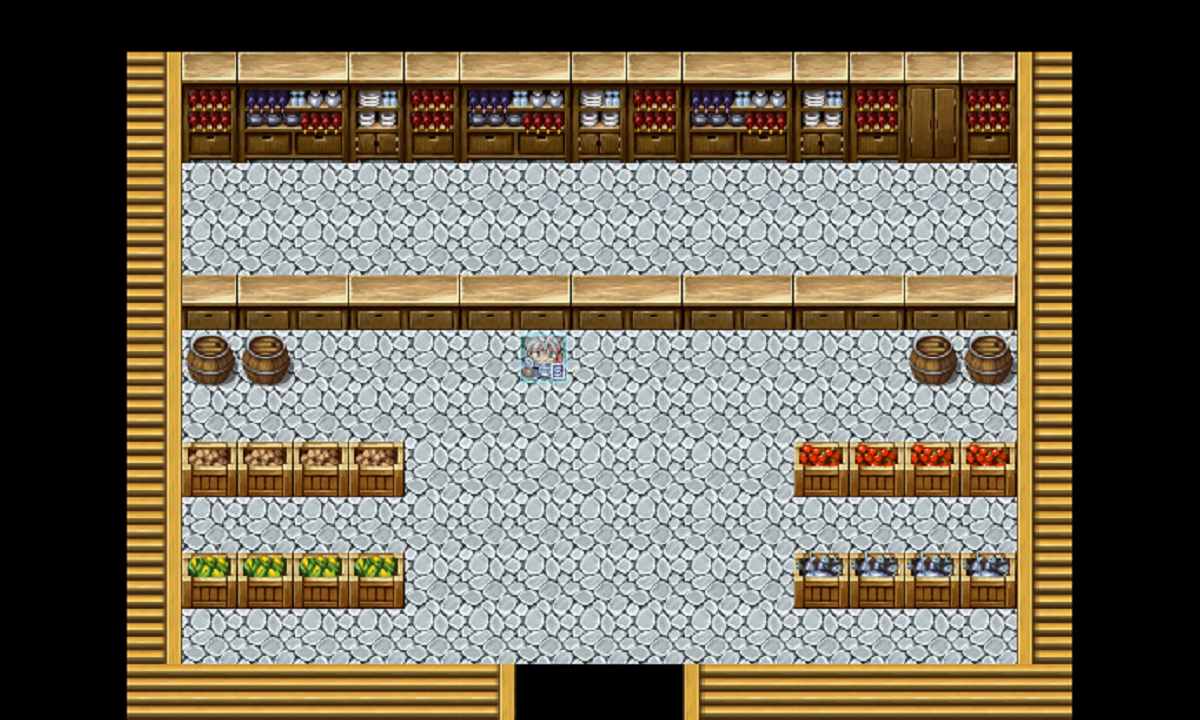
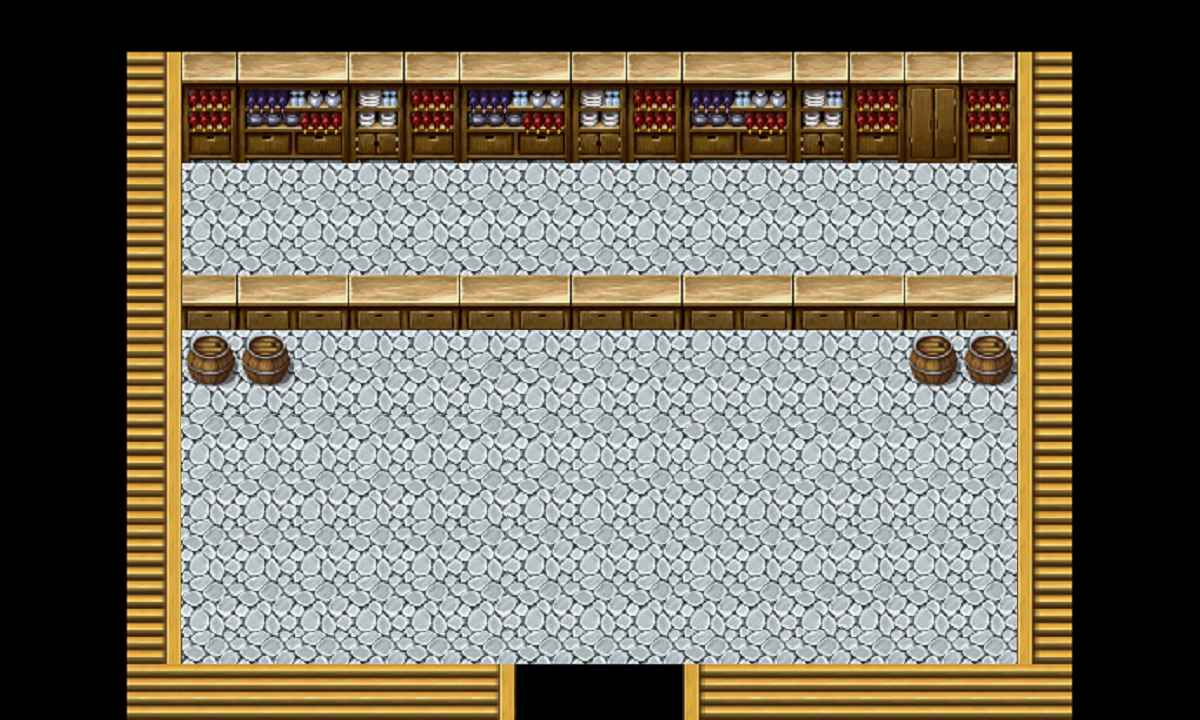
Added stock containers, shop image and 4 crate images

Changed region(s): [[0.1233, 0.4583, 0.4933, 0.8861], [0.555, 0.5806, 0.8633, 0.8861]]

diff --git a/core/src/com/bujok/ragstoriches/shop/StockContainer.java b/core/src/com/bujok/ragstoriches/shop/StockContainer.java
@@ -1,0 +1,139 @@
+package com.bujok.ragstoriches.shop;
+
+
+
+import com.badlogic.gdx.graphics.Color;
+import com.badlogic.gdx.graphics.Pixmap;
+import com.badlogic.gdx.graphics.Texture;
+import com.badlogic.gdx.graphics.g2d.Batch;
+import com.badlogic.gdx.graphics.g2d.TextureRegion;
+import com.badlogic.gdx.math.Rectangle;
+import com.badlogic.gdx.math.Vector3;
+import com.badlogic.gdx.scenes.scene2d.InputEvent;
+import com.badlogic.gdx.scenes.scene2d.Stage;
+import com.badlogic.gdx.scenes.scene2d.Touchable;
+import com.badlogic.gdx.scenes.scene2d.ui.Cell;
+import com.badlogic.gdx.scenes.scene2d.ui.Image;
+import com.badlogic.gdx.scenes.scene2d.ui.Label;
+import com.badlogic.gdx.scenes.scene2d.ui.Skin;
+import com.badlogic.gdx.scenes.scene2d.ui.Table;
+import com.badlogic.gdx.scenes.scene2d.ui.TextButton;
+import com.badlogic.gdx.scenes.scene2d.utils.ClickListener;
+import com.badlogic.gdx.scenes.scene2d.utils.TextureRegionDrawable;
+import com.badlogic.gdx.utils.Align;
+import com.badlogic.gdx.utils.Array;
+
+
+/**
+ * Created by tojoh on 30/01/2016.
+ */
+public class StockContainer extends Image {
+
+
+    protected String mStockType;
+    protected int mStockQuantity;
+    protected String mID;
+    protected Rectangle mImage;
+    protected Vector3 mCurrentPosition;
+    protected boolean mInfoShowing = false;
+    protected Table infoBoxTable;
+
+    // unique mID
+
+    //Texture texture = new Texture(Gdx.files.internal("shopper.png"));
+
+
+    public StockContainer(String type, int qty, Texture texture)
+    {
+        super(texture);
+        this.mStockType = type;
+        this.mStockQuantity = qty;
+        this.setTouchable(Touchable.enabled);
+        this.setBounds(getX(),getY(),getWidth(),getHeight());
+    }
+
+   @Override
+    public void draw(Batch batch, float parentAlpha)
+   {
+       TextureRegionDrawable textureRegionDrawable = (TextureRegionDrawable) getDrawable();
+       textureRegionDrawable.draw(batch,getX(),getY(),getOriginX(),getOriginY(),getWidth(),getHeight(),getScaleX(),getScaleY(),getRotation() );
+       if(infoBoxTable != null)
+       {
+           infoBoxTable.setPosition(((this.getWidth() / 2 )+ this.getX()) - (infoBoxTable.getWidth() / 2), this.getY() - 10  + infoBoxTable.getHeight());
+       }
+        super.draw(batch, parentAlpha);
+    }
+
+    public String getId() {
+        return mID;
+    }
+
+    public void setId(String id) {
+        this.mID = id;
+    }
+
+    public Vector3 getCurrentPosition() {
+        return mCurrentPosition;
+    }
+
+    public void setCurrentPosition(Vector3 currentPosition)
+    {
+        this.mCurrentPosition = currentPosition;
+    }
+
+    public void toggleInfoBox(Stage stage, Skin skin){
+        if(infoBoxTable != null){
+            infoBoxTable.remove();
+            infoBoxTable = null;
+        }else{
+            infoBoxTable = new Table();
+            //set background color of table
+            Pixmap pm1 = new Pixmap(1, 1, Pixmap.Format.RGB565);
+            pm1.setColor(new Color(0x0190C3D4));
+            pm1.fill();
+            infoBoxTable.setBackground(new TextureRegionDrawable(new TextureRegion(new Texture(pm1))));
+
+            Label typeLabel = new Label("Type : " + this.mStockType,skin);
+            typeLabel.setAlignment(Align.left);
+            final Label quantityLabel = new Label("Quantity : " + this.mStockQuantity,skin);
+            quantityLabel.setAlignment(Align.left);
+
+            TextButton closeTextButton = new TextButton("Close",skin,"default");
+            closeTextButton.addListener(new ClickListener(){
+                @Override
+                public void clicked(InputEvent event, float x, float y){
+                    infoBoxTable.remove();
+                }
+            });
+            closeTextButton.align(Align.right);
+            infoBoxTable.add(closeTextButton);
+            infoBoxTable.row();
+            infoBoxTable.add(typeLabel);
+            infoBoxTable.row();
+            infoBoxTable.add(quantityLabel);
+            Array<Cell> cells = infoBoxTable.getCells();
+            for (Cell c :cells) {
+                if(c != cells.get(0)){
+                    c.pad(0,20,0,20);
+                    c.align(Align.left);
+                }
+
+            }
+            infoBoxTable.pack();
+            infoBoxTable.setPosition(this.getX() - (infoBoxTable.getWidth() / 2), this.getY()  + infoBoxTable.getHeight());
+            stage.addActor(infoBoxTable);
+            Label.LabelStyle labelStyle = new Label.LabelStyle();
+
+
+
+        }
+
+    }
+    public String getStockType() {
+        return mStockType;
+    }
+
+    public Integer getStockQuantity() {
+        return mStockQuantity;
+    }
+}

diff --git a/core/src/com/bujok/ragstoriches/screens/ShopScreen.java b/core/src/com/bujok/ragstoriches/screens/ShopScreen.java
@@ -15,6 +15,7 @@ import com.badlogic.gdx.graphics.g2d.TextureRegion;
 import com.badlogic.gdx.graphics.glutils.ShapeRenderer;
 import com.badlogic.gdx.math.Rectangle;
 import com.badlogic.gdx.math.Vector2;
+import com.badlogic.gdx.math.Vector3;
 import com.badlogic.gdx.scenes.scene2d.Actor;
 import com.badlogic.gdx.scenes.scene2d.InputEvent;
 import com.badlogic.gdx.scenes.scene2d.Stage;
@@ -33,6 +34,7 @@ import com.badlogic.gdx.utils.Array;
 import com.badlogic.gdx.utils.viewport.FitViewport;
 import com.bujok.ragstoriches.RagsGame;
 import com.bujok.ragstoriches.people.Person;
+import com.bujok.ragstoriches.shop.StockContainer;
 
 public class ShopScreen implements Screen , InputProcessor {
     final RagsGame game;
@@ -108,9 +110,11 @@ public class ShopScreen implements Screen , InputProcessor {
         stage.addActor(button);
         stage.addActor(table);
 
+
+
        // game.nativeFunctions.HelloWorld();
 
-
+        this.createStockContainers();
 
         button.addListener(new ClickListener(){
             @Override
@@ -150,6 +154,30 @@ public class ShopScreen implements Screen , InputProcessor {
         shopMusic = Gdx.audio.newMusic(Gdx.files.internal("Groove_It_Now.mp3"));
         shopMusic.setLooping(true);
 
+    }
+
+    private void createStockContainers()
+    {
+        // add crates to the scene
+        StockContainer melonCrate = new StockContainer("Melons", 20, new Texture(Gdx.files.internal("crates_melon.png")) );
+        stage.addActor(melonCrate);
+        melonCrate.setX(180);
+        melonCrate.setY(110);
+
+        StockContainer potatoCrate = new StockContainer("Potatoes", 100, new Texture(Gdx.files.internal("crates_potatoes.png")) );
+        stage.addActor(potatoCrate);
+        potatoCrate.setX(180);
+        potatoCrate.setY(220);
+
+        StockContainer fishCrate = new StockContainer("Fish", 40, new Texture(Gdx.files.internal("crates_fish.png")) );
+        stage.addActor(fishCrate);
+        fishCrate.setX(795);
+        fishCrate.setY(110);
+
+        StockContainer strawbCrate = new StockContainer("Strawberries", 200, new Texture(Gdx.files.internal("crates_strawberries.png")) );
+        stage.addActor(strawbCrate);
+        strawbCrate.setX(795);
+        strawbCrate.setY(220);
     }
 
 
@@ -222,8 +250,13 @@ public class ShopScreen implements Screen , InputProcessor {
         Gdx.app.log("HIT","Touch at : "+ latestTouch.toString());
         if(hitActor != null)
             Gdx.app.log("HIT",hitActor.toString()+" hit, x: " + hitActor.getX() + ", y: " + hitActor.getY());
-            if(hitActor instanceof Person){
+            if(hitActor instanceof Person)
+            {
                 ((Person) hitActor).toggleInfoBox(stage,skin);
+            }
+            else if (hitActor instanceof StockContainer)
+            {
+                ((StockContainer) hitActor).toggleInfoBox(stage,skin);
             }
 
         return true;
